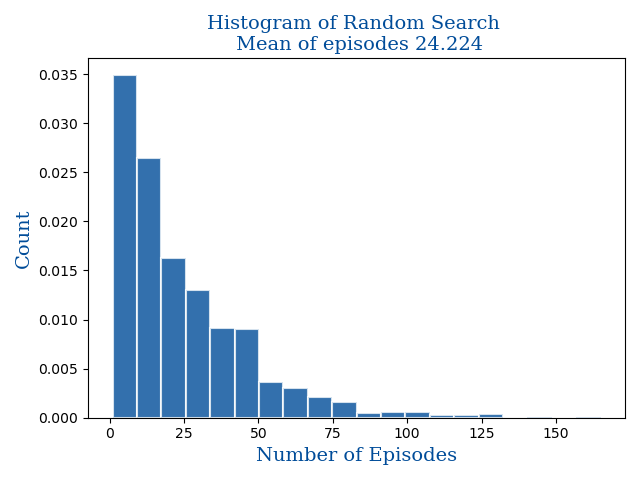
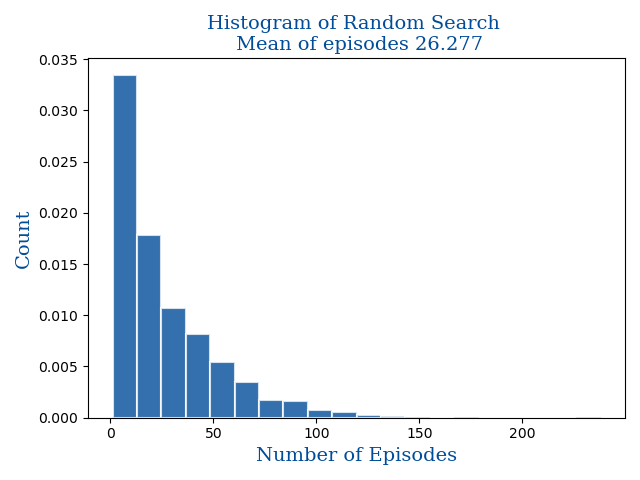
change question2 files

diff --git a/hw1/programming_part/question2/question2_utils.py b/hw1/programming_part/question2/question2_utils.py
@@ -21,6 +21,11 @@ def hist_plot(values, title, file_name):
 
 
 def estimate_agent_200(env):
+    """
+        estimate the agent over an episode and return its weights and rewards
+        episode: until the agent is terminated or reach to rewards of 200
+    """
+
     observation, info = env.reset(seed=42)
     total_reward = 0
     w = np.random.uniform(-1, 1, size=4)
@@ -43,6 +48,9 @@ def estimate_agent_200(env):
 
 
 def estimate_agent(env):
+    """
+        estimate the agent until the process terminated
+    """
     observation, info = env.reset(seed=42)
     total_reward = 0
     w = np.random.uniform(-1, 1, size=4)
@@ -63,6 +71,9 @@ def estimate_agent(env):
 
 
 def random_search(env, max_iterations):
+    """
+        random searching the weights that return the maximum rewards
+    """
     weights = np.zeros((max_iterations, 4))
     rewards = np.zeros(max_iterations)
 
@@ -76,11 +87,16 @@ def random_search(env, max_iterations):
     return weights, rewards
 
 
-def random_search_200(env, max_reward):
+def random_search_200(env):
+    """
+        calculate the number of episodes it takes to reach to rewards of 200
+        using random weights
 
+        episode: until the agent is terminated or reach to rewards of 200
+    """
     curr_reward = 0
     episode_num = 0
-    while curr_reward < max_reward:
+    while curr_reward < 200:
         curr_w, curr_reward = estimate_agent(env)
         episode_num += 1
 

diff --git a/hw1/programming_part/question2/section5.py b/hw1/programming_part/question2/section5.py
@@ -11,7 +11,7 @@ if __name__ == "__main__":
     num_episode_arr = np.zeros(max_iterations)
 
     for i in range(max_iterations):
-        num_episode_arr[i] = random_search_200(env, max_reward=200)
+        num_episode_arr[i] = random_search_200(env)
         if i % 100 == 0:
             print(f"Iteration #{i}")
 
